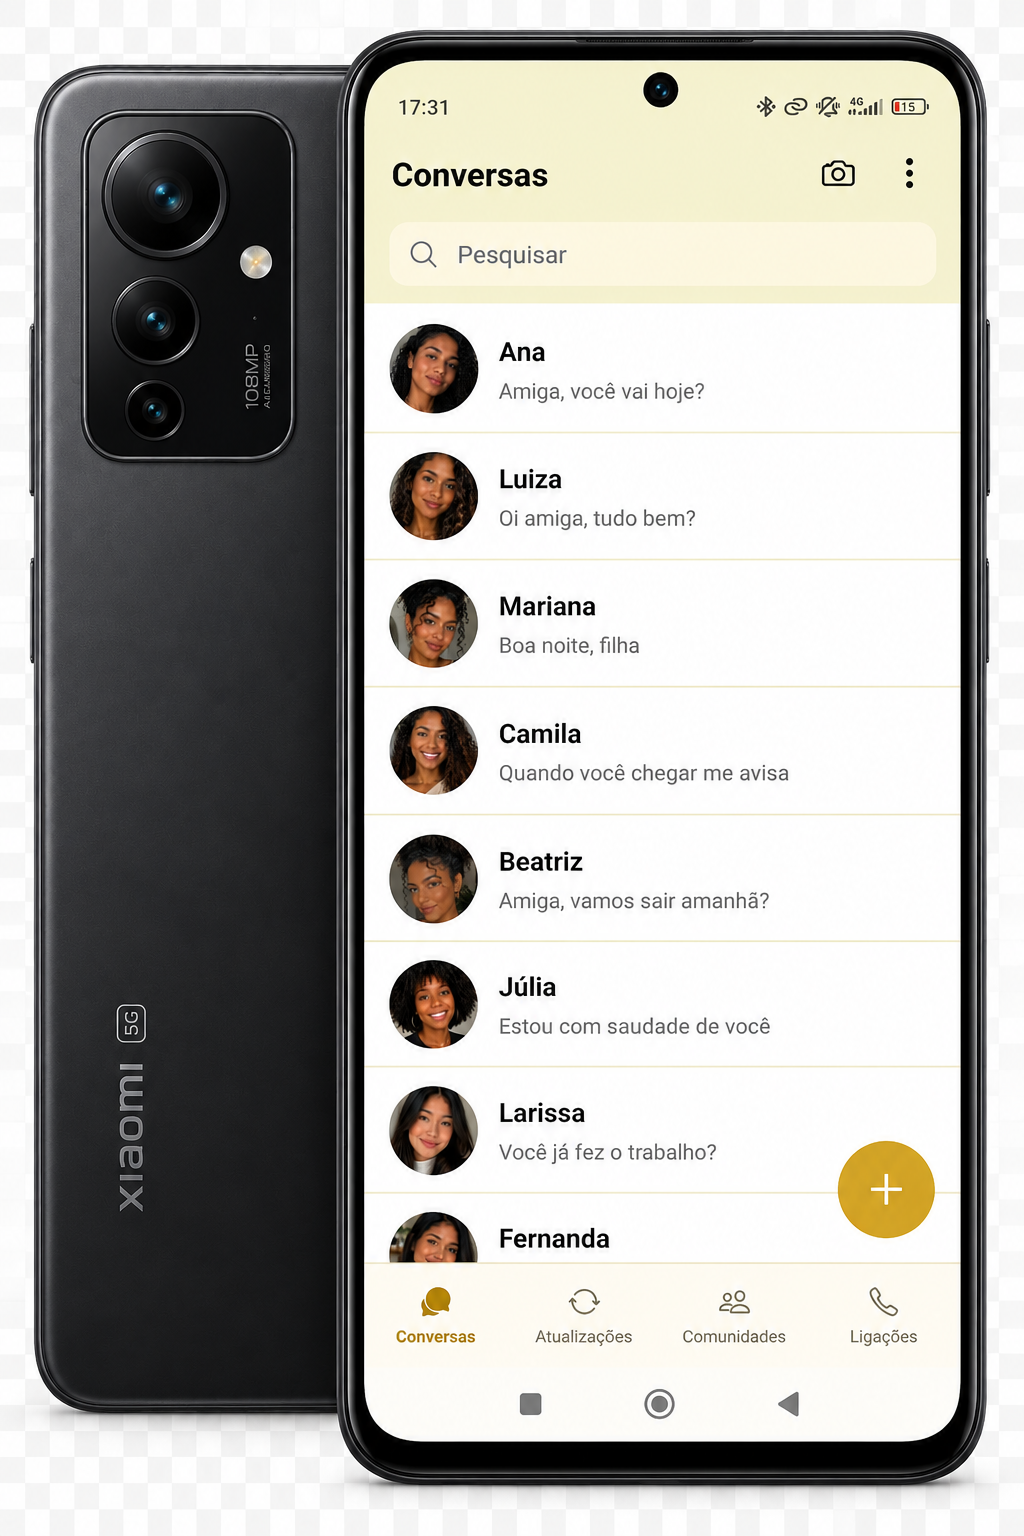
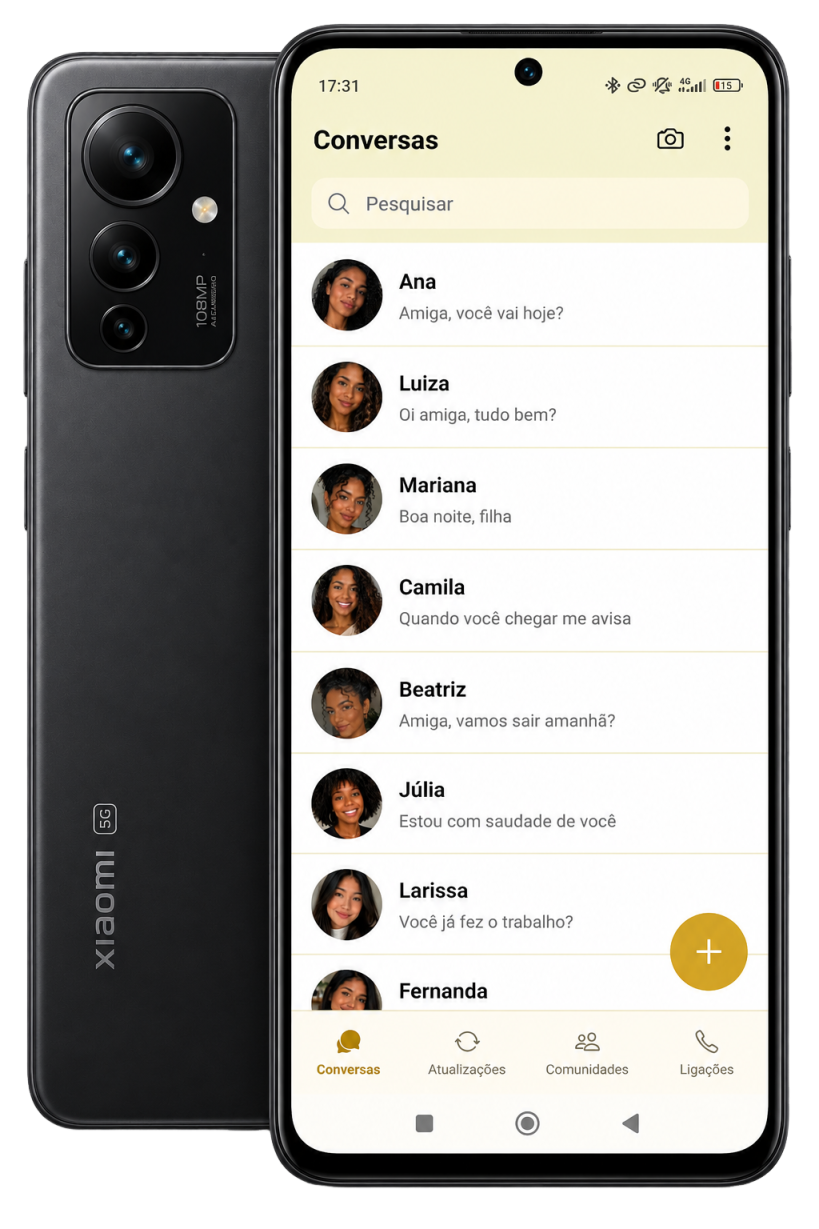
fix: Arruamado tamanho da imagem

Changed region(s): [[0.3358, 0.9585, 0.9463, 0.9894], [0.0305, 0.8967, 0.3358, 0.9585]]

diff --git a/README.md b/README.md
@@ -25,7 +25,7 @@ Este projeto usa o Expo instalado pelo proprio projeto. Nao e necessario instala
 
 ## Resultado
 
-<img src="./exercicio02/assets/images/resultado.png" alt="Imagem de resultado do projeto" width="200" height="200">
+<img src="./exercicio02/assets/images/resultado.png" alt="Imagem de resultado do projeto">
 
 ## Como baixar o projeto
 
